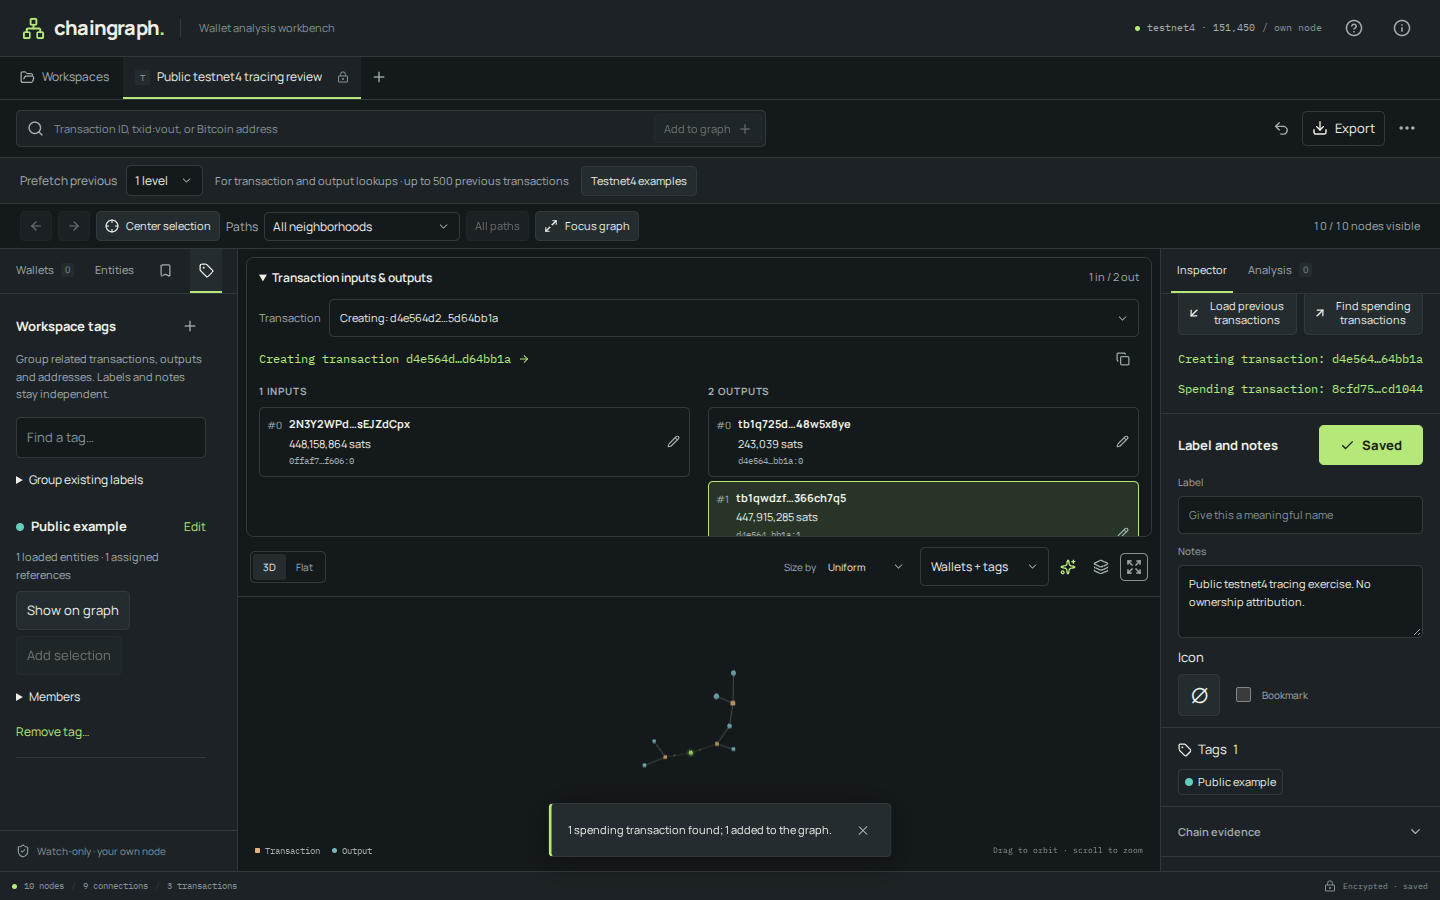
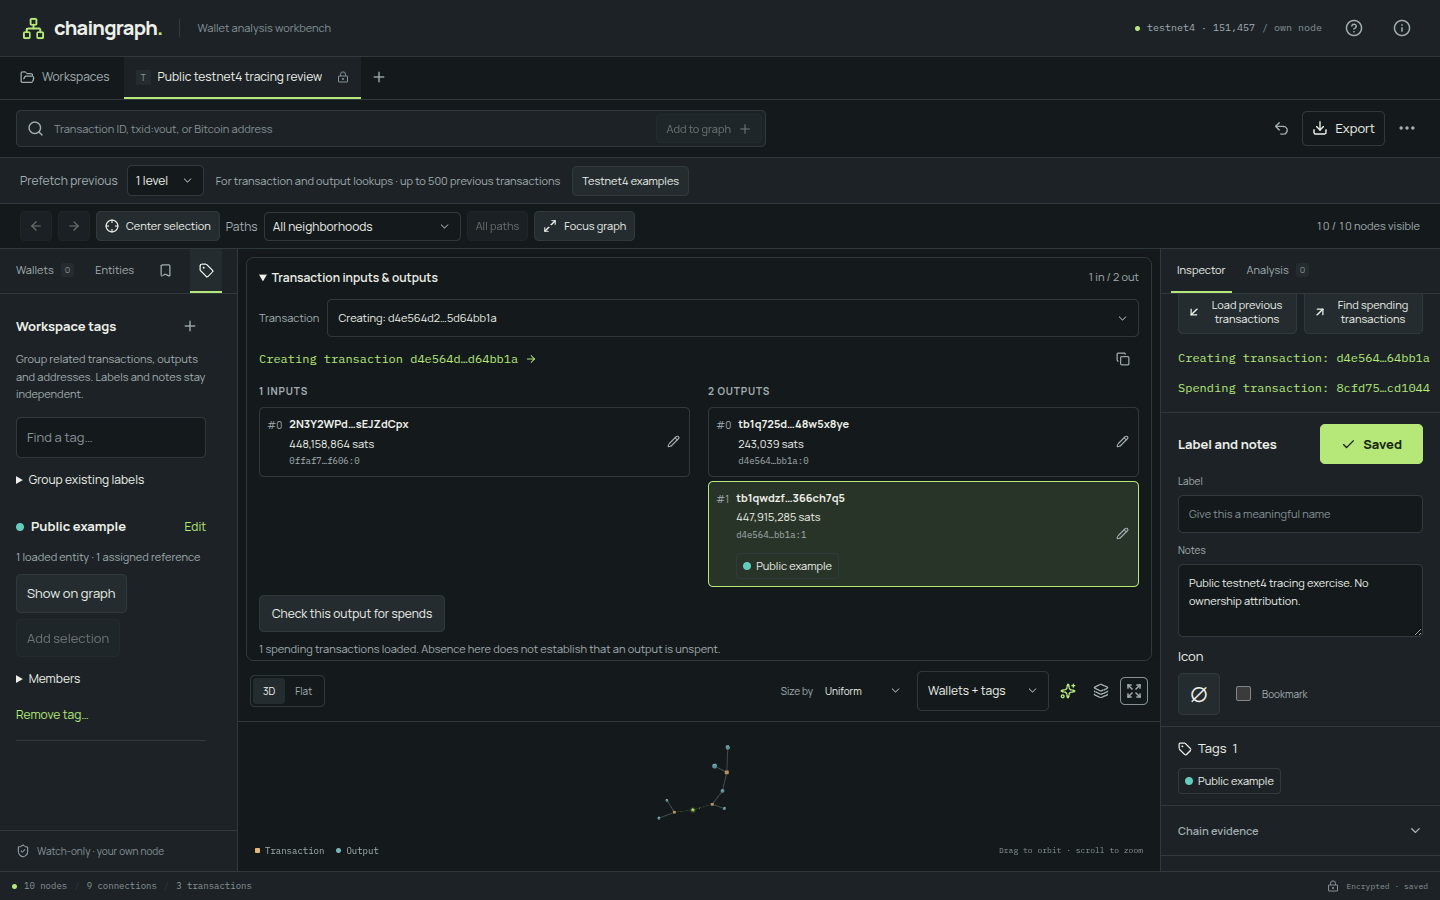
Record complete integrated UI validation and live tracing evidence

diff --git a/tests/e2e/transaction-inspection.spec.ts b/tests/e2e/transaction-inspection.spec.ts
@@ -214,7 +214,6 @@ test('keeps selected rows visible through tag wrapping and resize, preserves man
       };
     });
   await expect.poll(async () => (await geometry()).clipped).toBeLessThan(1);
-  const initialScroll = (await geometry()).scroll;
   await page.getByRole('button', { name: 'Tags', exact: true }).click();
   await page.getByRole('button', { name: 'New tag', exact: true }).click();
   await page.getByLabel('Tag name', { exact: true }).fill('A long public example exchange tag');
@@ -223,7 +222,8 @@ test('keeps selected rows visible through tag wrapping and resize, preserves man
     'A long public example exchange tag',
   );
   await expect.poll(async () => (await geometry()).clipped).toBeLessThan(1);
-  expect((await geometry()).scroll).toBeGreaterThan(initialScroll);
+  // A taller desktop panel can fit the tagged row without scrolling. The
+  // invariant is visibility; the phone resize below also exercises real overflow.
   await page.setViewportSize({ width: 390, height: 844 });
   await page.locator('.mobile-switch').getByRole('button', { name: 'Graph', exact: true }).click();
   await expect.poll(async () => (await geometry()).clipped).toBeLessThan(1);

diff --git a/docs/validation.md b/docs/validation.md
@@ -4,12 +4,11 @@
 
 The [foundation review](reviews/2026-09-08-foundation.md) records renderer isolation, transaction/script inspection, wallet refresh and encrypted tags. The application remains version 0.2.0; experimental renderers and layouts are reviewed in separate local branches.
 
-- Production build and all 203 unit/backend tests passed after responsive graph fitting was adjusted.
-- The full 47-test browser run passed 46 tests and exposed one new short-canvas selection issue: its hover card could cover the node before the click. The shared card title now explicitly selects the item. All seven graph browser tests passed after that correction, including visible nodes and selection with a 390 by 110 pixel canvas. Remaining workflows retain the 46 passing checks from the full run; a final combined run follows independent review integration.
-- The hardened linux/amd64 image `chaingraph:foundation-check` built successfully. Its read-only runtime is healthy under UID/GID 1000, with capabilities dropped and privilege escalation disabled. The production-browser check passed against actual built assets and CSP, including transaction rows, tags, annotations, encrypted persistence, reload and unlock. Chain requests in this container check use synthetic fixtures.
-- The separate read-only Core/Electrum smoke passed five checks at testnet4 height 151449. A fresh browser then loaded a public testnet4 output, one previous level and its exact spender, added a tag and note, and explicitly inspected raw/witness data. At height 151450 it completed with no uncaught browser errors. These live checks used the host proxy, not the production container.
+- At the integrated UI foundation (`6a62434`), production build and all 209 unit/backend tests passed. The final serial browser run passed all 48 tests in 5.3 minutes. It includes actual WebGL picking, short canvases, encrypted tags, large transaction lists, selected-row visibility, intentional scrolling, and returning-wallet refresh.
+- The hardened linux/amd64 image `chaingraph:foundation-check` was rebuilt from that integrated source. The production-browser check passed against its actual built assets and CSP, including transaction rows, tags, annotations, encrypted persistence, reload and unlock. Chain requests in this container check use synthetic fixtures.
+- The separate read-only Core/Electrum smoke passed five checks at testnet4 height 151449. A fresh browser then loaded a public testnet4 output, one previous level and its exact spender, added a tag and note, and explicitly inspected raw/witness data. A repeated walkthrough after UI integration completed at height 151457 with no uncaught browser errors; desktop and phone selected rows were fully visible. These live checks used the host proxy, not the production container.
 
-[Live desktop walkthrough](screenshots/foundation-live-desktop.png) and [phone walkthrough](screenshots/foundation-live-mobile.png) contain a public example and disposable annotations. They exposed the cost of fixed fit margins in a short canvas; the renderer now caps each margin at 10% of the available dimension. The extended production check initially expected a transaction's label in an output row, then encountered singular tag-count wording. Its journey now annotates an output and verifies that output after reopening; the tag-count copy was corrected.
+[Live desktop walkthrough](screenshots/foundation-live-desktop.png) and [phone walkthrough](screenshots/foundation-live-mobile.png) contain a public example and disposable annotations. The initial captures exposed fixed fit margins in a short canvas and metadata pushing the selected row out of view. Fit now caps each margin at 10% of the available dimension, and row geometry follows tag wrapping and viewport changes without overriding deliberate scrolling. The extended production check initially expected a transaction's label in an output row, then encountered singular tag-count wording. Its journey now annotates an output and verifies that output after reopening; the tag-count copy was corrected. The first combined 48-test run passed 47 and failed an outdated requirement that the taller desktop transaction panel must scroll. The test now checks visibility rather than unnecessary scrolling, while the phone portion still exercises overflow; the final 48-test rerun passed.
 
 No release was published. Native ARM runtime, physical-device GPU performance and a real GitHub release remain unverified. Wallet refresh tests use deterministic public vectors and synthetic histories, including a simulated return days later; they do not establish completeness for a personal wallet.
 

diff --git a/docs/research/core-keepalive.md b/docs/research/core-keepalive.md
@@ -1,0 +1,30 @@
+# Bitcoin RPC keepalive recovery
+
+Investigated 2026-09-08 after independent UI reviews occasionally reported a
+connection failure immediately after idle time.
+
+A read-only probe used the application's `CoreClient` and its normal Node
+HTTP/HTTPS agent against the configured testnet4 node. The process loaded the
+existing environment file directly; it did not read or print that file, request
+headers, credentials, endpoints or raw exception messages. Instrumentation emitted
+only `ClientRequest.reusedSocket` and the transport error code.
+
+| Idle interval | Result | Elapsed |
+| --- | --- | --- |
+| Initial request | Connected, height 151457 | 63 ms |
+| 15 seconds | Connected | 7 ms |
+| 30 seconds | `ECONNRESET`, reused socket | 4 ms |
+| 1 second after failure | Connected on a fresh socket | 51 ms |
+| 30 seconds | `ECONNRESET`, reused socket | 2 ms |
+
+This reproduces stale connection reuse in this deployment. It does not establish
+that every historical connection error had that cause.
+
+[Node's HTTP request documentation](https://nodejs.org/docs/latest-v24.x/api/http.html#requestreusedsocket)
+describes this keepalive race and identifying it with `reusedSocket` plus
+`ECONNRESET`. The correction is restricted to one fresh-connection retry for a
+read-only request that fails in that way before receiving a response. It retains
+the original deadline and concurrency slot. Authentication failures, response
+errors, parsing errors, cancellations and fresh-connection failures are outside
+that retry. Final regression and live verification results belong in the validation
+report after integration.

diff --git a/docs/reviews/2026-09-08-foundation.md b/docs/reviews/2026-09-08-foundation.md
@@ -61,3 +61,18 @@ No remote publication, GitHub release, native ARM run, physical-device test or
 consensus/signature validation is implied by these results.
 
 The subsequent 47-test main run passed 46 and exposed a short-canvas hover card covering its node before a click. The card title now provides an explicit shared selection button. All seven graph browser tests passed after that fix; the build, 203 unit tests and formatting also passed. The optional renderer-recovery event is shared so a restored experimental renderer can clear the common WebGL fallback.
+
+## Final combined UI check
+
+Main integrated the corrected Kimi foundation at `0547e2b`, transaction geometry
+refinement at `b3de0fd`, and Opus panel sizing at `9ba99e5`. Build and 209 unit
+tests passed. The final serial browser run passed all 48 tests after adjusting a
+stale scroll-offset assertion for the taller desktop panel. A row that already
+fits need not scroll; phone overflow and deliberate scrolling remain asserted.
+
+The rebuilt hardened container passed the extended production-browser round trip.
+A fresh live public-testnet4 walkthrough passed at height 151457 with no browser
+errors, including tags, parents, exact spending discovery and raw inspection.
+Updated desktop and phone screenshots show the selected tagged output fully
+inside its panel. A separate Core idle-socket investigation and its final
+verification are recorded in the backend review and validation report.

diff --git a/README.md b/README.md
@@ -6,7 +6,7 @@ Version 0.2.0 includes multiple encrypted workspaces and watch-only wallets, bro
 
 Filter the graph by entity type, labels, notes, bookmarks, value and loaded funding/spending evidence. Follow a selection's neighborhood, navigate selection history, isolate findings, or use a paginated entity list. A synthetic laboratory contains three 150-input/150-output transactions with expandable paths. Three verified real testnet4 output examples are also available.
 
-![Real testnet4 tracing and fee findings in Chaingraph](docs/screenshots/release-analysis.png)
+![Real testnet4 transaction tracing, input/output inspection and tags in Chaingraph](docs/screenshots/foundation-live-desktop.png)
 
 ## Docker and Compose
 
